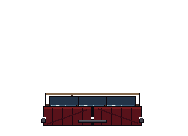
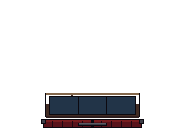
Gates: gateplayerblows, farmhouse fixture redrawn; decisions and review rows (B6787-B6789)
Claude-Session: https://claude.ai/code/session_01YQQrYf7oxKmJpdYHfyeEZg

Changed region(s): [[0.2128, 0.7647, 0.7713, 0.9412]]

diff --git a/changes/decisions/B6780.md b/changes/decisions/B6780.md
@@ -37,3 +37,28 @@ Reverse: put back the toggleStatusEffect("prone") line in beastDown.
 Tools. gatemounted, gatevehicles and gatearms made actors with attribute value only; WoDX Combat reads total first, and the system fills totals only when it recomputes, so a pool could read 1 (a card read "Stamina 1 + Ride 2" for a rider of Stamina 5) depending on what ran before. Each body now gives its totals, as gateknockdown already did. gatemounted finds its two tiles by title (one batch comes back in any order), and gatearms finds the gas-mask card by its time and tries again on a miss, instead of looking at the last six messages.
 
 Reverse: drop the totals and the lookups in the three gates.
+
+## B6787. The close-combat rules the cards only described are applied (2026-11-16)
+WoDX Combat. Second pass of the final audit; each choice is the audit's recommended option, logged in docs/PENDING-REVIEW.md.
+- Tackle: both fighters get an offBalance flag {combat, round}; in the next round planDefense and conditionMods add +1 difficulty to their attacks and defenses (V20 Dark Ages p. 348, "+1 difficulty to all actions next turn"). rules.offBalanceNow.
+- Riposte: refused unless a card this turn shows the riposter defending successfully (card data defOk). rules.riposteReady.
+- Hold and Grapple: the held condition now lasts for the scene (lasts "grip") and a grip flag {by, kind, combat, round} goes on the victim. At the start of the victim's turn breakFree rolls resisted Strength + Brawl (difficulty 6) for both; the victim breaks free on more successes, or at once when the holder is gone, cannot act or is incapacitated. A held player cannot attack; the Storyteller may, with a log line. rules.breaksFree.
+- Clinch: a clinch flag on both fighters; while it stands the only attacks allowed are the clinch itself or a bite, and only against the partner. rules.clinchLimit.
+- The bite after a hold: a bite against the held victim by the holder is allowed and rolls as an ordinary bite (rules.biteReady); without a grip a player's manual bite is refused.
+- A stake: a stake or impale maneuver with 3 or more damage successes kills a mortal or ghoul outright ("a stake kills a mortal as the wound it is"): the levels become the whole track, lethal, and the card says the heart is pierced. A vampire is immobilized as before.
+- Refusals throw for a player and only warn for the Storyteller ("Storyteller's call").
+
+Reverse: the helpers in rules.js (gripActive, biteReady, breaksFree, clinchLimit, offBalanceNow, riposteReady, stakeKills), the gripWhy checks and the grips list in resolveAttack, breakFree and its updateCombat hook, the noAttackWhy held check, and the offBalance lines in planDefense and conditionMods.
+
+## B6788. A disarmed weapon lands on the map (2026-11-16)
+WoDX Combat and WoDX Interactables. Interactables has a loose-gear pile kind (B6087), so the weapon is not only unequipped: dropWeapon calls loose.setDown on the Storyteller's computer with a point the disarm's extra successes in yards away from the attacker along the line through the victim, and a "Knocked away" card; anyone can pick the pile up. Without Interactables, or with no token, the weapon is unequipped as in B6781. setDown takes {at, how} for this.
+
+Reverse: the Interactables branch of dropWeapon and the at/how options of setDown.
+
+## B6789. Bodies on furniture, a player's feeding, and the farmhouse fixture (2026-11-16)
+- WoDX Interactables: the restsOn flag was written but never read. Moving the tile now moves each body resting on it to its middle (bodiesFollow, active Storyteller), and deleting the tile clears the flag.
+- WoDX Combat, Actions, Paperdoll, Storyteller: wodxFed fires only on the feeding computer, so a player's feeding never reached the Storyteller-only listeners. Actions now relays it through Combat's relayHook (wodxFed is a payload-only relay); the herd listener skips the relayed copy (the player already sent its own update) and Paperdoll plays only tokens no player owns from it.
+- Tools: tools/gate/fixtures/pixel-farmhouse was redrawn from tools/pixelmap/maps/farmhouse.py; the closed shutters now sit in the window gaps instead of over the wall. Only the seven closed-window images and their key positions changed.
+- Tools: a new two-browser gate, gateplayerblows: a player's Disarm of an NPC and a Great Blow, then the NPC's attack on the striker that turn and the next.
+
+Reverse: haul.mjs restingOn, bodiesFollow and the two tile hooks; the relay line in Actions, the relayed checks in herds.mjs and sprites.mjs, wodxFed in Combat's RELAYED list; git checkout of the fixture folder; delete the gate.

diff --git a/docs/PENDING-REVIEW.md b/docs/PENDING-REVIEW.md
@@ -1786,3 +1786,13 @@ Ben: "I approve everything on this desk." That covers every card on the House Ev
 | 2026-11-16 | A vehicle worked by remote (the Net's vehicle remote, Technica 4's Remote Touch): how does it move? | The runner picks a compass way (or toward the targeted token) and up to 12 squares in the Net window; with someone at the wheel their token moves and WoDX Interactables carries the vehicle, otherwise the vehicle tile and its passengers move. WoDX Combat's vehicles api has no movement, so this reads WoDX Interactables' mount flags (B6799) | Drop steerVehicle from modules/wodx-otherworlds/scripts/technica.mjs and its calls in net.mjs workRemote and remoteTouch |
 | 2026-11-16 | The other worlds' sound loops: no file ships and no core or free sound fits | The switch stays, and now says that nothing plays until the loops are put in the folder; the first time a token stands in a world with no loop, the player is told once (B6793). The four loops (penumbra, shadowlands, dreaming, net) are an asset need for Ben | Put the old hint back on layerSound in modules/wodx-otherworlds/scripts/realms.mjs and drop the missingTold notice in applyLayerSound |
 | 2026-11-16 | The weather's modifier for sight at range: which rolls does it reach? (a roll carries no range) | Every ranged attack (firearms, archery) by a token in an outdoor scene; tracks reach Perception + Survival, footing reaches Dexterity + Athletics, Ride and Drive. It goes through WoDX Chronicle's roll effects, with no change to WoDX Combat (B6796) | Drop the addSource call in modules/wodx-atmosphere/scripts/main.mjs, or narrow rollEffects in weather-rules.mjs |
+| 2026-11-16 | How long a Hold or Grapple lasts (V20 Dark Ages p. 348: resisted Strength + Brawl at the victim's next action) | Until the victim breaks free; the resisted roll is made for both at the start of each of the victim's turns, and a gone or helpless holder lets go at once (B6787) | Drop breakFree's updateCombat hook and the "grip" lasts in followOn (modules/wodx-combat/scripts/rules.js, main.js) |
+| 2026-11-16 | Who rolls to break a Clinch | The victim, at the start of the turn, with the same resisted Strength + Brawl as a hold (B6787) | Leave "clinch" out of GRIP_HOLDS in modules/wodx-combat/scripts/rules.js |
+| 2026-11-16 | Whether a held character can attack | A held player character cannot (only struggle); the Storyteller's attack is warned, not stopped (B6787) | Remove the held check in noAttackWhy in modules/wodx-combat/scripts/main.js |
+| 2026-11-16 | Who a stake through the heart kills | A mortal or a ghoul at 3 or more damage successes; a vampire is immobilized as before (B6787) | Change stakeKills in modules/wodx-combat/scripts/rules.js |
+| 2026-11-16 | What the Tackle's "+1 difficulty to all actions next turn" covers | Both fighters' attacks and defenses in the next round (an off-balance flag); other rolls are left to the Storyteller (B6787) | Drop the offBalance lines in planDefense and conditionMods in modules/wodx-combat/scripts/main.js |
+| 2026-11-16 | A Riposte without a successful defense, or an attack out of a Clinch | Refused for a player; the Storyteller gets a "Storyteller's call" line and the attack goes ahead (B6787) | Drop the gripWhy checks in resolveAttack in modules/wodx-combat/scripts/main.js |
+| 2026-11-16 | Where a disarmed weapon goes | A pile of loose gear the disarm's extra successes in yards from the attacker, through the victim; unequipped only when Interactables is off (B6788) | Drop the Interactables branch of dropWeapon in modules/wodx-combat/scripts/main.js |
+| 2026-11-16 | A body laid on furniture when the furniture moves | The body moves with it to the tile's middle; deleting the tile clears the mark (B6789) | Remove bodiesFollow and the two tile hooks in modules/wodx-interactables/scripts/haul.mjs |
+| 2026-11-16 | How a player's feeding reaches the Storyteller-only listeners | wodxFed is relayed through WoDX Combat's relayHook; the herd listener skips the relayed copy (B6789) | Remove the relayHook line after wodxFed in modules/wodx-actions/scripts/main.js |
+| 2026-11-16 | The farmhouse gate fixture's shutters over the wall | Redrawn from tools/pixelmap/maps/farmhouse.py on Linux, no PC needed: seven closed-window images and their positions (B6789) | git checkout the previous tools/gate/fixtures/pixel-farmhouse |
